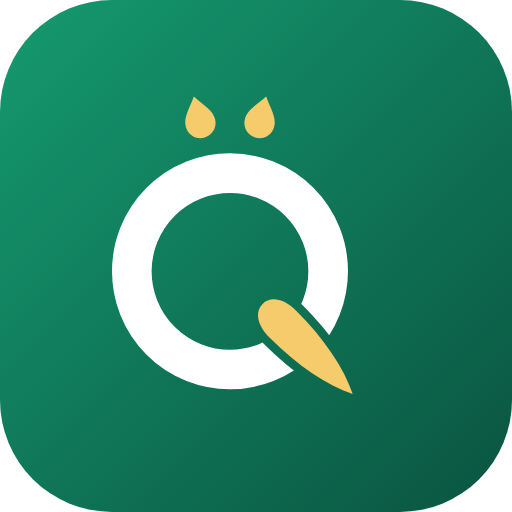
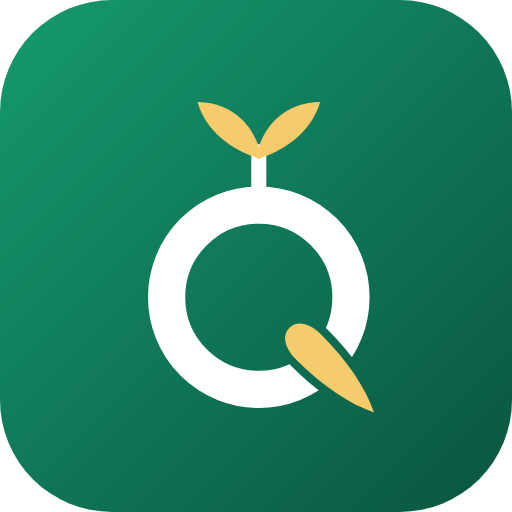
Make the khair cue explicit: a seedling grows out of the Q
The two floating dots read as punctuation, not as goodness. They are now a
seedling on a stem rising out of the ring: the good is planted and grows,
and the two leaves still sit where the dots of ق sit, so the letter keeps
its double reading. The gold leaf tail stays.

- every lockup, mono variant, app icon, favicon and the concept diagram
  regenerated around the new mark
- new alternate qadam-alt-hand: an open palm offering a seedling
- alt-wheat redrawn as a wheat ear rising out of the Q
- README, preview sheet and preview image updated to match

Claude-Session: https://claude.ai/code/session_01LFEZLNbpHHcGTMFhSMiQaG

Changed region(s): [[0.2188, 0.1875, 0.6562, 0.75], [0.375, 0.4375, 0.75, 0.8125]]

diff --git a/brand/qadam-alkhair/preview.html b/brand/qadam-alkhair/preview.html
@@ -54,10 +54,13 @@
   </header>
 
   <h2><span>١</span> الفكرة</h2>
+  <p style="margin:0 0 14px;color:var(--muted)">كأس يُقدَّم، ومنه ينبت الخير.</p>
   <div class="idea">
     <div><b>الحلقة</b><br>حرف <code>Q</code> اللاتيني، وهو نفسه كأس حرف <b>ق</b> العربي.</div>
-    <div><b>النقطتان</b><br>نقطتا حرف <b>ق</b>، وهما كذلك بذرتان: بداية الخير.</div>
-    <div><b>الورقة الذهبية</b><br>ذيل الـ<code>Q</code> وورقة نابتة معاً — نماء وعطاء، وذهبيّ لون القمح.</div>
+    <div style="grid-column:1/-1;padding:0;border:0;background:transparent">
+      <img src="logo/qadam-concept-diagram.svg" alt="شرح عناصر العلامة" style="width:100%"></div>
+    <div><b>النبتة</b><br>تطلع من الحلقة: الخير يُزرع فينمو — وورقتاها تقومان مقام نقطتي <b>ق</b>.</div>
+    <div><b>الورقة الذهبية</b><br>ذيل الـ<code>Q</code> وورقة في آن واحد، وذهبيّ لون القمح والرزق.</div>
   </div>
 
   <h2><span>٢</span> النسخ الأساسية</h2>
@@ -100,8 +103,9 @@
 
   <h2><span>٦</span> مقترحات بديلة</h2>
   <div class="grid">
-    <div class="card"><img src="logo/qadam-alt-heart.svg" alt="" style="max-width:44%"><span class="cap">alt — heart counter</span></div>
     <div class="card"><img src="logo/qadam-alt-wheat.svg" alt="" style="max-width:44%"><span class="cap">alt — wheat ear</span></div>
+    <div class="card"><img src="logo/qadam-alt-hand.svg" alt="" style="max-width:44%"><span class="cap">alt — giving hand</span></div>
+    <div class="card"><img src="logo/qadam-alt-heart.svg" alt="" style="max-width:44%"><span class="cap">alt — heart counter</span></div>
   </div>
 
   <h2><span>٧</span> قواعد الاستخدام</h2>

diff --git a/brand/qadam-alkhair/src/build.py b/brand/qadam-alkhair/src/build.py
@@ -21,8 +21,9 @@ C = {
 # ---------------------------------------------------------------- the mark ---
 # Built in a 200x200 box. Ring = letter Q / bowl of ق. Leaf = Q tail + growth.
 # Two seeds above = the two dots of ق + "seeds of khair".
-RING = dict(cx=100, cy=102, r=52, w=21)
-LEAF_T = "matrix(0.70711 0.70711 0.70711 -0.70711 124 126)"
+RING = dict(cx=100, cy=116, r=52, w=21)
+LEAF_T = "matrix(0.70711 0.70711 0.70711 -0.70711 124 140)"
+LEAFSHAPE = "M0,0 C11,-4 23,-13 26,-27 C12,-26 2,-16 0,-3 Z"   # leaf, tip up-right
 LEAF_D = ("M58,0 C45,6.4 27,10 6,10 C-4.2,10 -9.5,5.6 -9.5,0 "
           "C-9.5,-5.6 -4.2,-10 6,-10 C27,-10 45,-6.4 58,0 Z")
 SEED_D = ("M0,-13 C4.5,-6.5 8,-3.5 8,1.5 C8,6 4.4,9.5 0,9.5 "
@@ -30,22 +31,28 @@ SEED_D = ("M0,-13 C4.5,-6.5 8,-3.5 8,1.5 C8,6 4.4,9.5 0,9.5 "
 SEED_S = 0.72          # seeds read as the two dots of ق, not as ears
 SEED_X = 12.5          # half the distance between the two dots
 SEED_Y = 30
-MARK_SHIFT = "translate(-3 11)"
+MARK_SHIFT = "translate(-2 0)"
 
 
 def mark(uid, ring_fill, leaf_fill, seed_fill, gradient=None):
-    """Return (defs, body) for the mark, drawn inside a 200x200 user space."""
+    """The mark, in a 200x200 box.
+
+    Ring   = the bowl of Q and of ق.
+    Sprout = two leaves on a stem growing out of the ring; they also sit where
+             the two dots of ق sit, so the letter still reads.
+    Leaf tail = the tail of Q and a leaf at once — the khair cue.
+    """
     defs = []
     if gradient:
         defs.append(
-            f'<linearGradient id="g{uid}" x1="24" y1="34" x2="168" y2="172" '
+            f'<linearGradient id="g{uid}" x1="24" y1="34" x2="168" y2="180" '
             f'gradientUnits="userSpaceOnUse">'
             f'<stop offset="0" stop-color="{gradient[0]}"/>'
             f'<stop offset="1" stop-color="{gradient[1]}"/></linearGradient>')
         ring_fill = f"url(#g{uid})"
-    # mask: notch the ring where the leaf crosses it
+    stem_fill = ring_fill
     defs.append(
-        f'<mask id="m{uid}" maskUnits="userSpaceOnUse" x="0" y="0" width="200" height="200">'
+        f'<mask id="m{uid}" maskUnits="userSpaceOnUse" x="-20" y="-20" width="240" height="240">'
         f'<rect x="-20" y="-20" width="240" height="240" fill="#fff"/>'
         f'<g transform="{LEAF_T}"><path d="{LEAF_D}" fill="#000" stroke="#000" '
         f'stroke-width="9" stroke-linejoin="round"/></g></mask>')
@@ -53,44 +60,84 @@ def mark(uid, ring_fill, leaf_fill, seed_fill, gradient=None):
         f'<g transform="{MARK_SHIFT}">'
         f'<circle cx="{RING["cx"]}" cy="{RING["cy"]}" r="{RING["r"]}" fill="none" '
         f'stroke="{ring_fill}" stroke-width="{RING["w"]}" mask="url(#m{uid})"/>'
+        f'<path d="M100,60 C100,48 100,42 100,34" stroke="{stem_fill}" stroke-width="8.5" '
+        f'stroke-linecap="round" fill="none"/>'
+        f'<g transform="translate(99 38) rotate(4) scale(1.28)">'
+        f'<path d="{LEAFSHAPE}" fill="{leaf_fill}"/></g>'
+        f'<g transform="translate(101 38) rotate(-4) scale(-1.28 1.28)">'
+        f'<path d="{LEAFSHAPE}" fill="{leaf_fill}"/></g>'
         f'<g transform="{LEAF_T}"><path d="{LEAF_D}" fill="{leaf_fill}"/></g>'
-        f'<g transform="translate(84 22) rotate(-14)"><path d="{SEED_D}" fill="{seed_fill}"/></g>'
-        f'<g transform="translate(116 22) rotate(14)"><path d="{SEED_D}" fill="{seed_fill}"/></g>'
         f'</g>')
     return "\n".join(defs), body
 
 
 # ------------------------------------------------------- alternate concepts ---
 def mark_wheat(uid, ring_fill, grain_fill, gradient=None):
-    """Concept C: Q whose tail is a wheat spike (سنبلة)."""
+    """Alternate: a wheat ear rises out of the Q — رزق وخير."""
     defs = []
     if gradient:
         defs.append(
-            f'<linearGradient id="g{uid}" x1="24" y1="34" x2="168" y2="172" '
+            f'<linearGradient id="g{uid}" x1="24" y1="34" x2="168" y2="180" '
             f'gradientUnits="userSpaceOnUse"><stop offset="0" stop-color="{gradient[0]}"/>'
             f'<stop offset="1" stop-color="{gradient[1]}"/></linearGradient>')
         ring_fill = f"url(#g{uid})"
-    grains = []
-    grain = "M0,0 C9,-3.4 19,-2.2 24,0 C19,2.2 9,3.4 0,0 Z"
-    for i, (t, sc) in enumerate([(9, 1.0), (21.5, 0.92), (33, 0.82)]):
-        for sgn in (1, -1):
-            grains.append(
-                f'<g transform="translate({t} {sgn*3.2}) rotate({sgn*26}) scale({sc})">'
+    grain = "M0,0 C9,-5.5 20,-4 25,0 C20,4 9,5.5 0,0 Z"
+    ears = []
+    for y, sc in [(60, 1.0), (47, 0.9), (35, 0.78)]:
+        ears.append(f'<g transform="translate(102 {y}) rotate(-52) scale({sc})">'
+                    f'<path d="{grain}" fill="{grain_fill}"/></g>')
+        ears.append(f'<g transform="translate(98 {y}) rotate(-128) scale({sc})">'
+                    f'<path d="{grain}" fill="{grain_fill}"/></g>')
+    ears.append(f'<g transform="translate(100 28) rotate(-90) scale(0.72)">'
                 f'<path d="{grain}" fill="{grain_fill}"/></g>')
-    grains.append(f'<g transform="translate(43 0) scale(0.74)">'
-                  f'<path d="{grain}" fill="{grain_fill}"/></g>')
-    spike = (f'<g transform="{LEAF_T}">'
-             f'<path d="M-8,0 L26,0" stroke="{grain_fill}" stroke-width="7.5" '
-             f'stroke-linecap="round"/>' + "".join(grains) + '</g>')
     defs.append(
-        f'<mask id="m{uid}" maskUnits="userSpaceOnUse" x="0" y="0" width="200" height="200">'
+        f'<mask id="m{uid}" maskUnits="userSpaceOnUse" x="-20" y="-20" width="240" height="240">'
         f'<rect x="-20" y="-20" width="240" height="240" fill="#fff"/>'
-        f'<g transform="{LEAF_T}"><path d="M-10,0 L70,0" stroke="#000" stroke-width="34" '
-        f'stroke-linecap="round"/></g></mask>')
-    body = (f'<g transform="translate(-6 8)">'
+        f'<g transform="{LEAF_T}"><path d="{LEAF_D}" fill="#000" stroke="#000" '
+        f'stroke-width="9" stroke-linejoin="round"/></g></mask>')
+    body = (f'<g transform="{MARK_SHIFT}">'
             f'<circle cx="{RING["cx"]}" cy="{RING["cy"]}" r="{RING["r"]}" fill="none" '
             f'stroke="{ring_fill}" stroke-width="{RING["w"]}" mask="url(#m{uid})"/>'
-            f'{spike}</g>')
+            f'<path d="M100,66 L100,32" stroke="{ring_fill}" stroke-width="8" '
+            f'stroke-linecap="round"/>{"".join(ears)}'
+            f'<g transform="{LEAF_T}"><path d="{LEAF_D}" fill="{grain_fill}"/></g></g>')
+    return "\n".join(defs), body
+
+
+def mark_hand(uid, ring_fill, hand_fill, leaf_fill, gradient=None):
+    """Alternate: an open hand offering a seedling — قدّم الخير حرفياً."""
+    defs = []
+    if gradient:
+        defs.append(
+            f'<linearGradient id="g{uid}" x1="24" y1="34" x2="168" y2="180" '
+            f'gradientUnits="userSpaceOnUse"><stop offset="0" stop-color="{gradient[0]}"/>'
+            f'<stop offset="1" stop-color="{gradient[1]}"/></linearGradient>')
+        ring_fill = f"url(#g{uid})"
+    fingers = "".join(
+        f'<path d="M{x},{y} L{x},{y-l}" stroke="{hand_fill}" stroke-width="9.5" '
+        f'stroke-linecap="round"/>'
+        for x, y, l in [(80, 130, 18), (91, 130, 25), (102, 130, 25), (113, 130, 18)])
+    palm = (f'<path d="M74,126 C74,144 86,154 100,154 C114,154 126,144 126,126 Z" fill="{hand_fill}"/>'
+            f'<rect x="74" y="118" width="52" height="14" rx="7" fill="{hand_fill}"/>'
+            f'<path d="M74,128 C64,126 60,118 64,112" fill="none" stroke="{hand_fill}" '
+            f'stroke-width="10" stroke-linecap="round"/>')
+    sprout = (f'<path d="M100,118 L100,98" stroke="{leaf_fill}" stroke-width="6" stroke-linecap="round"/>'
+              f'<g transform="translate(99 100) rotate(4) scale(0.8)">'
+              f'<path d="{LEAFSHAPE}" fill="{leaf_fill}"/></g>'
+              f'<g transform="translate(101 100) rotate(-4) scale(-0.8 0.8)">'
+              f'<path d="{LEAFSHAPE}" fill="{leaf_fill}"/></g>')
+    dots = "".join(f'<g transform="translate({100 + s*12.5} 44) rotate({s*10}) scale(0.72)">'
+                   f'<path d="{SEED_D}" fill="{hand_fill}"/></g>' for s in (-1, 1))
+    defs.append(
+        f'<mask id="m{uid}" maskUnits="userSpaceOnUse" x="-20" y="-20" width="240" height="240">'
+        f'<rect x="-20" y="-20" width="240" height="240" fill="#fff"/>'
+        f'<g transform="{LEAF_T}"><path d="{LEAF_D}" fill="#000" stroke="#000" '
+        f'stroke-width="9" stroke-linejoin="round"/></g></mask>')
+    body = (f'<g transform="{MARK_SHIFT}">'
+            f'<circle cx="{RING["cx"]}" cy="{RING["cy"]}" r="{RING["r"]}" fill="none" '
+            f'stroke="{ring_fill}" stroke-width="{RING["w"]}" mask="url(#m{uid})"/>'
+            f'{dots}{palm}{fingers}{sprout}'
+            f'<g transform="{LEAF_T}"><path d="{LEAF_D}" fill="{hand_fill}"/></g></g>')
     return "\n".join(defs), body
 
 
@@ -110,10 +157,10 @@ def mark_heart(uid, disc_fill, tail_fill, gradient=None):
     defs.append(
         f'<mask id="m{uid}" maskUnits="userSpaceOnUse" x="0" y="0" width="200" height="200">'
         f'<rect x="-20" y="-20" width="240" height="240" fill="#fff"/>'
-        f'<g transform="translate(99 99) scale(0.95)"><path d="{heart}" fill="#000"/></g>'
+        f'<g transform="translate(99 113) scale(0.95)"><path d="{heart}" fill="#000"/></g>'
         f'<g transform="{LEAF_T}"><path d="{tail_d}" stroke="#000" stroke-width="30" '
         f'stroke-linecap="round"/></g></mask>')
-    body = (f'<g transform="translate(-4 6)">'
+    body = (f'<g transform="translate(-2 0)">'
             f'<circle cx="{RING["cx"]}" cy="{RING["cy"]}" r="62.5" fill="{disc_fill}" '
             f'mask="url(#m{uid})"/>'
             f'<g transform="{LEAF_T}"><path d="{tail_d}" stroke="{tail_fill}" stroke-width="20" '
@@ -152,4 +199,4 @@ def write(name, content):
 
 
 # ink bounding box of the primary mark inside its 200x200 box
-MARK_INK = (34.5, 31.8, 161.5, 178.0)
+MARK_INK = (35.5, 7.0, 163.0, 178.5)

diff --git a/brand/qadam-alkhair/src/make_files.py b/brand/qadam-alkhair/src/make_files.py
@@ -57,12 +57,12 @@ def horizontal(uid, style, ar_fill, la_fill, bg=None, rtl=False):
     ar_w = ar["bbox"][2] - ar["bbox"][0]
     la_w = la["bbox"][2] - la["bbox"][0]
     text_w = max(ar_w, la_w)
-    mark_h, gap, pad = 150, 46, 34
+    mark_h, gap, pad = 174, 44, 32
     mark_w = mark_h * (MARK_INK[2] - MARK_INK[0]) / (MARK_INK[3] - MARK_INK[1])
     W = pad + mark_w + gap + text_w + pad
-    H = 230
-    ar_base = 124          # baseline of the Arabic line
-    la_base = 184          # baseline of the Latin line
+    H = 248
+    ar_base = 134          # baseline of the Arabic line
+    la_base = 194          # baseline of the Latin line
     mark_y = (H - mark_h) / 2
     if rtl:
         mx = W - pad - mark_w
@@ -79,12 +79,12 @@ def stacked(uid, style, ar_fill, la_fill, bg=None):
     ar, la = words(80, 21)
     ar_w = ar["bbox"][2] - ar["bbox"][0]
     la_w = la["bbox"][2] - la["bbox"][0]
-    mark_h = 168
+    mark_h = 198
     mark_w = mark_h * (MARK_INK[2] - MARK_INK[0]) / (MARK_INK[3] - MARK_INK[1])
     W = round(max(mark_w, ar_w, la_w) + 90)
-    H = 394
-    defs, g = mark_at(uid, style, (W - mark_w) / 2, 36, mark_h)
-    ar_base, la_base = 300, 354
+    H = 420
+    defs, g = mark_at(uid, style, (W - mark_w) / 2, 30, mark_h)
+    ar_base, la_base = 322, 376
     body = (g
             + put(ar, (W - ar_w) / 2, ar_base, ar_fill)
             + put(la, (W - la_w) / 2, la_base, la_fill))
@@ -104,7 +104,7 @@ def wordmark_only(uid, ar_fill, la_fill, bg=None):
 
 def icon_tile(uid, radius=112, bg=C["green"], style="on_dark"):
     """App icon: rounded square, mark knocked out in white + gold."""
-    defs, g = mark_at(uid, style, 112, 118, 276)
+    defs, g = mark_at(uid, style, 148, 104, 304)
     body = (f'<rect width="512" height="512" rx="{radius}" fill="{bg}"/>' + g)
     extra = (f'<linearGradient id="bg{uid}" x1="0" y1="0" x2="512" y2="512" '
              f'gradientUnits="userSpaceOnUse"><stop offset="0" stop-color="{C["green_lt"]}"/>'
@@ -115,7 +115,7 @@ def icon_tile(uid, radius=112, bg=C["green"], style="on_dark"):
 
 def favicon(uid):
     """Tight-cropped mark for tiny sizes."""
-    pad = 8
+    pad = 5
     s = (64 - 2 * pad) / (MARK_INK[3] - MARK_INK[1])
     defs, body = mark_variant(uid, "color")
     w = (MARK_INK[2] - MARK_INK[0]) * s
@@ -132,6 +132,8 @@ def mark_file(uid, style, bg=None):
 def alt_file(uid, kind, bg=None):
     if kind == "heart":
         defs, body = B.mark_heart(uid, None, C["gold"], (C["green_lt"], C["green_dk"]))
+    elif kind == "hand":
+        defs, body = B.mark_hand(uid, None, C["gold"], C["green_lt"], (C["green_lt"], C["green_dk"]))
     else:
         defs, body = B.mark_wheat(uid, None, C["gold"], (C["green_lt"], C["green_dk"]))
     return svg(200, 200, defs, body, bg)
@@ -155,6 +157,7 @@ FILES = {
     "logo/qadam-favicon.svg":              lambda: favicon("f1"),
     "logo/qadam-alt-heart.svg":            lambda: alt_file("b1", "heart"),
     "logo/qadam-alt-wheat.svg":            lambda: alt_file("c1", "wheat"),
+    "logo/qadam-alt-hand.svg":             lambda: alt_file("d1", "hand"),
 }
 
 if __name__ == "__main__":

diff --git a/brand/qadam-alkhair/src/diagram.py b/brand/qadam-alkhair/src/diagram.py
@@ -1,0 +1,43 @@
+# -*- coding: utf-8 -*-
+"""Annotated construction diagram: what each part of the mark means."""
+import build as B
+from build import C, MARK_INK
+from textpath import shape_to_path
+
+W, H = 840, 430
+S = 320 / (MARK_INK[3] - MARK_INK[1])          # mark height 320
+MX, MY = 58, 50
+LABEL_RIGHT = W - 40
+
+def to_canvas(x, y):
+    return MX + (x - MARK_INK[0]) * S, MY + (y - MARK_INK[1]) * S
+
+ITEMS = [
+    ((116.0, 22.0),  "نبتة تنمو · وهي نقطتا ق", 86),
+    ((35.5, 116.0),  "حلقة Q · كأس حرف ق", 214),
+    ((143.0, 161.0), "ورقة الخير · ذيل Q", 346),
+]
+
+defs, body = B.mark("d1", None, C["gold"], C["gold"], (C["green_lt"], C["green_dk"]))
+parts = [f'<g transform="translate({MX - MARK_INK[0]*S:.2f} {MY - MARK_INK[1]*S:.2f}) '
+         f'scale({S:.5f})">{body}</g>']
+
+for (mx, my), text, ly in ITEMS:
+    px, py = to_canvas(mx, my)
+    lab = shape_to_path(B.FONT_LA.replace("Bold", "Bold"), "x", size=1)  # placeholder, replaced below
+    lab = shape_to_path(B.FONT_AR.replace("ExtraBold", "Bold"), text, size=19)
+    x0, _, x1, _ = lab["bbox"]
+    left = LABEL_RIGHT - (x1 - x0) - 18
+    parts.append(
+        f'<path d="M{px:.1f},{py:.1f} L{left-46:.1f},{py:.1f} L{left-18:.1f},{ly:.1f} '
+        f'L{left-6:.1f},{ly:.1f}" fill="none" stroke="currentColor" stroke-width="1.6" '
+        f'stroke-opacity="0.38" stroke-linejoin="round" stroke-linecap="round"/>'
+        f'<circle cx="{px:.1f}" cy="{py:.1f}" r="4.5" fill="currentColor" fill-opacity="0.38"/>'
+        f'<g transform="translate({LABEL_RIGHT - x1:.2f} {ly + 7:.2f})">'
+        f'<path d="{lab["d"]}" fill="currentColor"/></g>')
+
+svg = ('<svg xmlns="http://www.w3.org/2000/svg" viewBox="0 0 %d %d" width="%d" height="%d" '
+       'role="img" aria-label="شرح عناصر شعار قدم الخير">\n<title>قدم الخير — بناء العلامة</title>\n'
+       '<defs>\n%s\n</defs>\n%s\n</svg>\n') % (W, H, W, H, defs, "\n".join(parts))
+open("out/logo/qadam-concept-diagram.svg", "w", encoding="utf-8").write(svg)
+print("ok", len(svg))

diff --git a/brand/qadam-alkhair/src/export_png.py b/brand/qadam-alkhair/src/export_png.py
@@ -12,7 +12,8 @@ JOBS = [("qadam-mark", [512, 1024]), ("qadam-mark-mono-ink", [512]),
         ("qadam-logo-stacked", [900, 1800]), ("qadam-logo-stacked-dark", [900]),
         ("qadam-wordmark", [1600]), ("qadam-app-icon", [512, 1024]),
         ("qadam-favicon", [16, 32, 48, 64, 180, 512]),
-        ("qadam-alt-heart", [512]), ("qadam-alt-wheat", [512])]
+        ("qadam-alt-heart", [512]), ("qadam-alt-wheat", [512]),
+        ("qadam-alt-hand", [512])]
 
 def viewbox(svg_text):
     m = re.search(r'viewBox="0 0 ([\d.]+) ([\d.]+)"', svg_text)

diff --git a/brand/qadam-alkhair/README.md b/brand/qadam-alkhair/README.md
@@ -13,8 +13,10 @@ that doubles as the Arabic **ق**, with a clear "khair" (goodness, growth, givin
 | العنصر | المعنى |
 | --- | --- |
 | **الحلقة** — the ring | حرف `Q` من الاسم اللاتيني، وفي نفس الوقت كأس/حوض حرف `ق` |
-| **النقطتان فوق الحلقة** — the two seeds | نقطتا حرف `ق` في العربية، وهما أيضاً بذرتان = بداية الخير |
-| **الورقة الذهبية** — the gold leaf | ذيل حرف `Q`، وهي ورقة نابتة = النماء والعطاء، والذهبي لون القمح والرزق |
+| **النبتة الطالعة من الحلقة** — the seedling | الخير يُزرع فينمو؛ والورقتان تقومان مقام نقطتي حرف `ق` فوق الكأس |
+| **الورقة الذهبية** — the gold leaf | ذيل حرف `Q` وورقة في آن واحد، والذهبي لون القمح والرزق |
+
+العلامة كلها رسالة واحدة: **كأس يُقدَّم، ومنه ينبت الخير.**
 
 فالعلامة تُقرأ `Q` للعين اللاتينية و`ق` للعين العربية، بشكل واحد لا يتغيّر.
 The mark reads as `Q` to a Latin eye and as `ق` to an Arabic eye — one shape, two readings.
@@ -37,8 +39,9 @@ The mark reads as `Q` to a Latin eye and as `ق` to an Arabic eye — one shape,
 | `qadam-mark-mono-ink / -mono-white / -mono-green / -on-dark` | نسخ العلامة بلون واحد |
 | `qadam-app-icon.svg` | أيقونة تطبيق 512×512 بخلفية خضراء |
 | `qadam-favicon.svg` | نسخة مقصوصة للأحجام الصغيرة جداً |
-| `qadam-alt-heart.svg` · `qadam-alt-wheat.svg` | مقترحان بديلان (قلب داخل الـQ · سنبلة قمح) |
-| `qadam-concept-diagram.svg` | مخطط يشرح معنى كل عنصر في العلامة (يتبع لون النص تلقائياً) |
+| `qadam-alt-wheat.svg` | بديل: سنبلة قمح تطلع من الـQ |
+| `qadam-alt-hand.svg` | بديل: كفّ مفتوح يقدّم شتلة — «قدّم الخير» حرفياً |
+| `qadam-alt-heart.svg` | بديل: قلب داخل الـQ |
 
 ### `png/` — PNG بخلفية شفافة · transparent PNG
 
